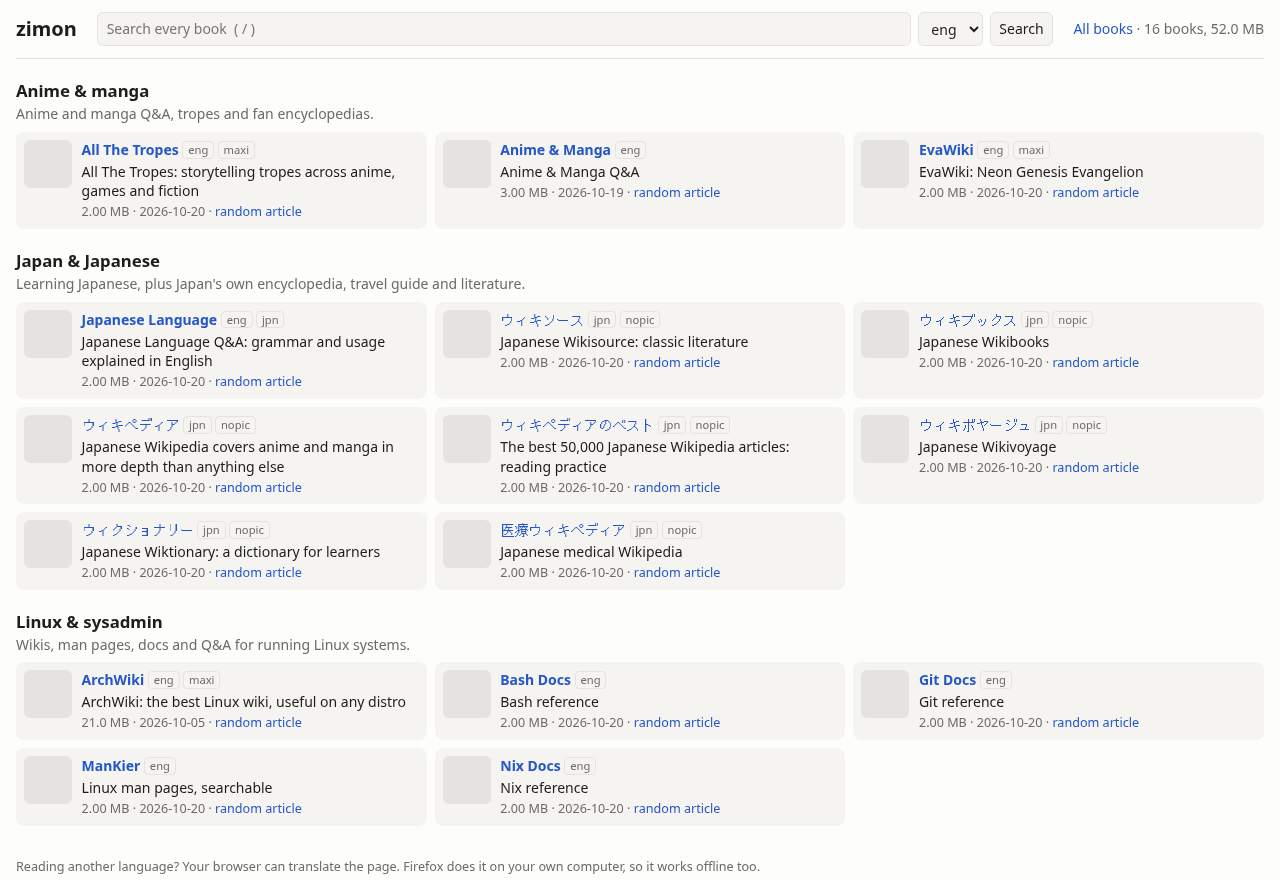
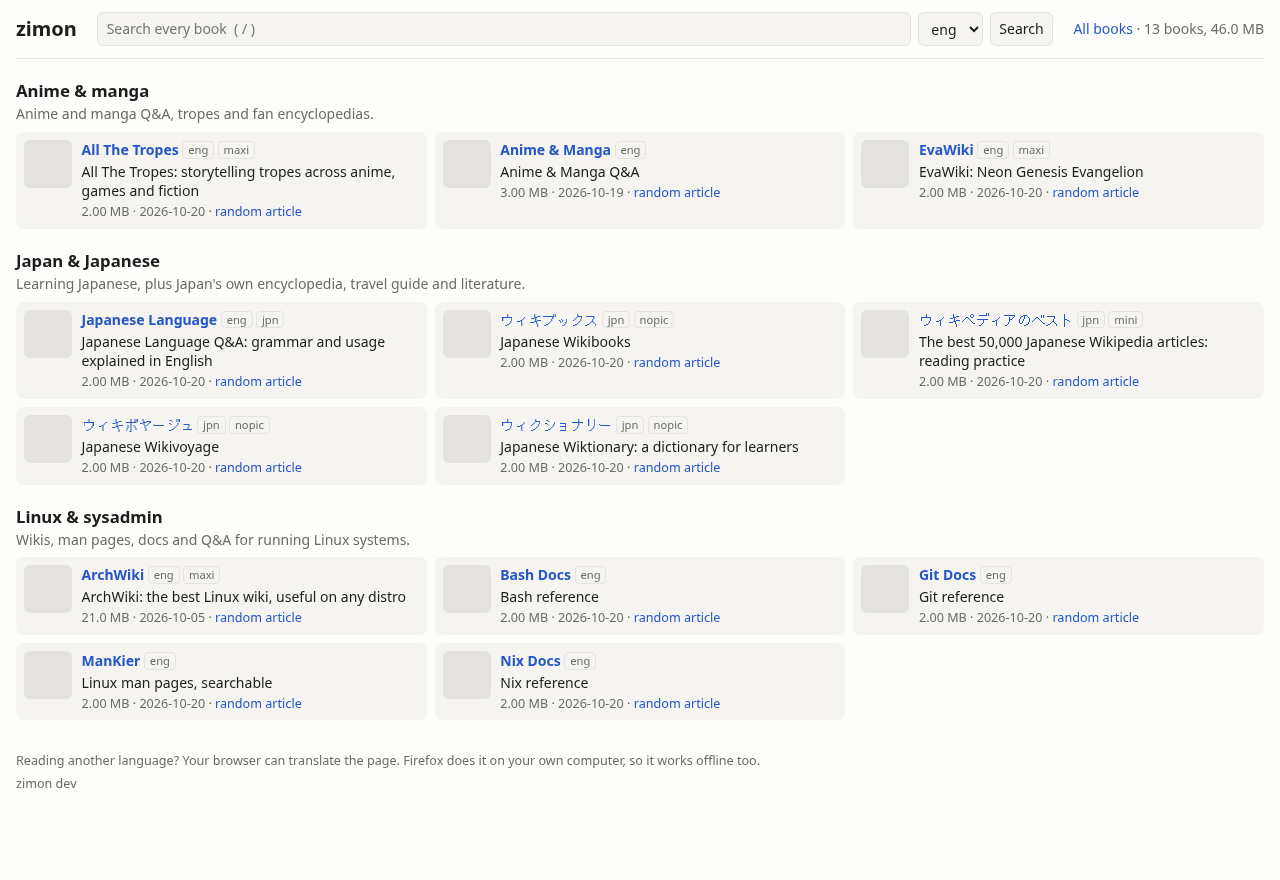
fix(readme): retake the zimon serve screenshots for the tabbed admin page
The start page, the admin page and its new Catalog tab, from just serve-shots: tools/serve-shots.sh sets up the demo library on the fake Kiwix and drives headless Chromium (tools/serve-shots.mjs), so the images are the same on every run until the pages change.

diff --git a/README.md b/README.md
@@ -227,6 +227,8 @@ plan is still the one you saw. Whatever you change is written to
 
 ![The admin page](docs/img/serve-admin.png)
 
+![The admin page's Catalog tab, filtered on "wiki"](docs/img/serve-catalog.png)
+
 When only this computer can reach the server, `zimon serve` prints a sign-in
 link that works once (in a terminal, not into a service's log). Otherwise
 sign in with a token from `zimon token add`. A sign-in lasts 30 days (a
@@ -760,6 +762,7 @@ just fuzz 1m          # every fuzz target for a minute each (default 30s)
 just vuln             # known vulnerabilities, with govulncheck
 just generate         # the database code, from its SQL (sqlc)
 just pin-kiwix        # the kiwix-serve release zimon serve fetches, from the Containerfile
+just serve-shots      # the start page and admin page screenshots, in headless Chromium
 ```
 
 The database is SQLite. Its schema (`internal/store/schema.sql`) and queries
